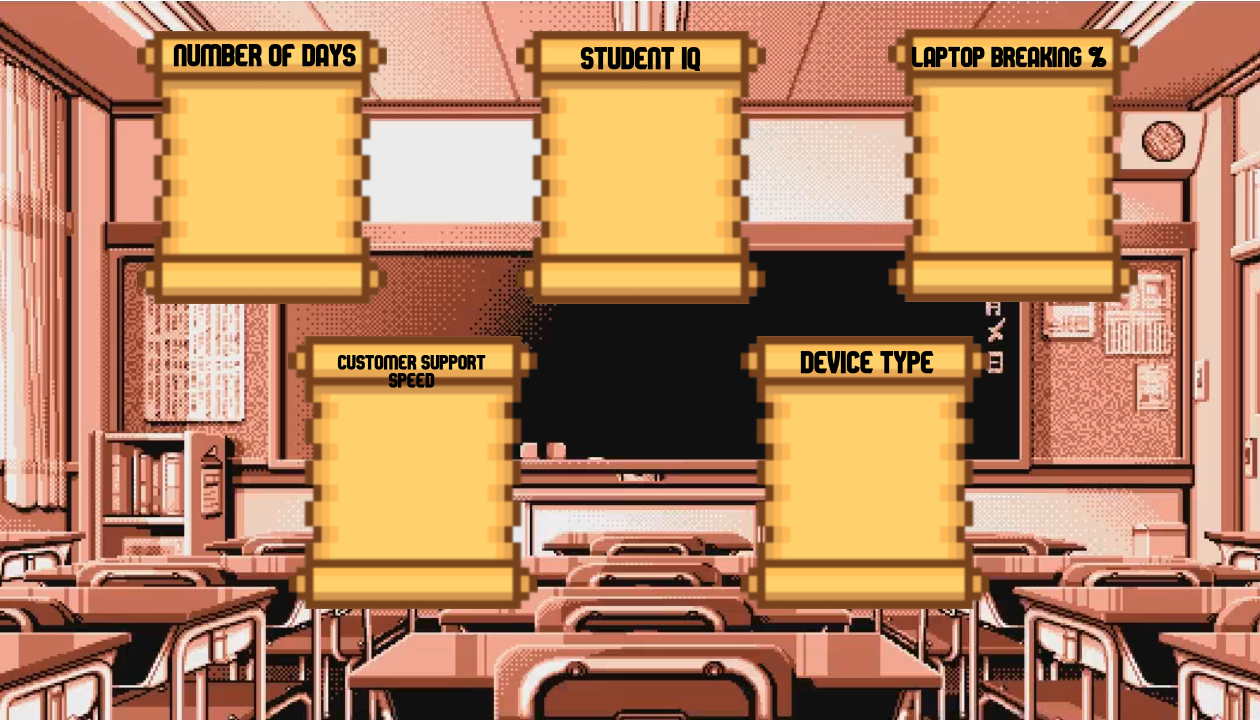
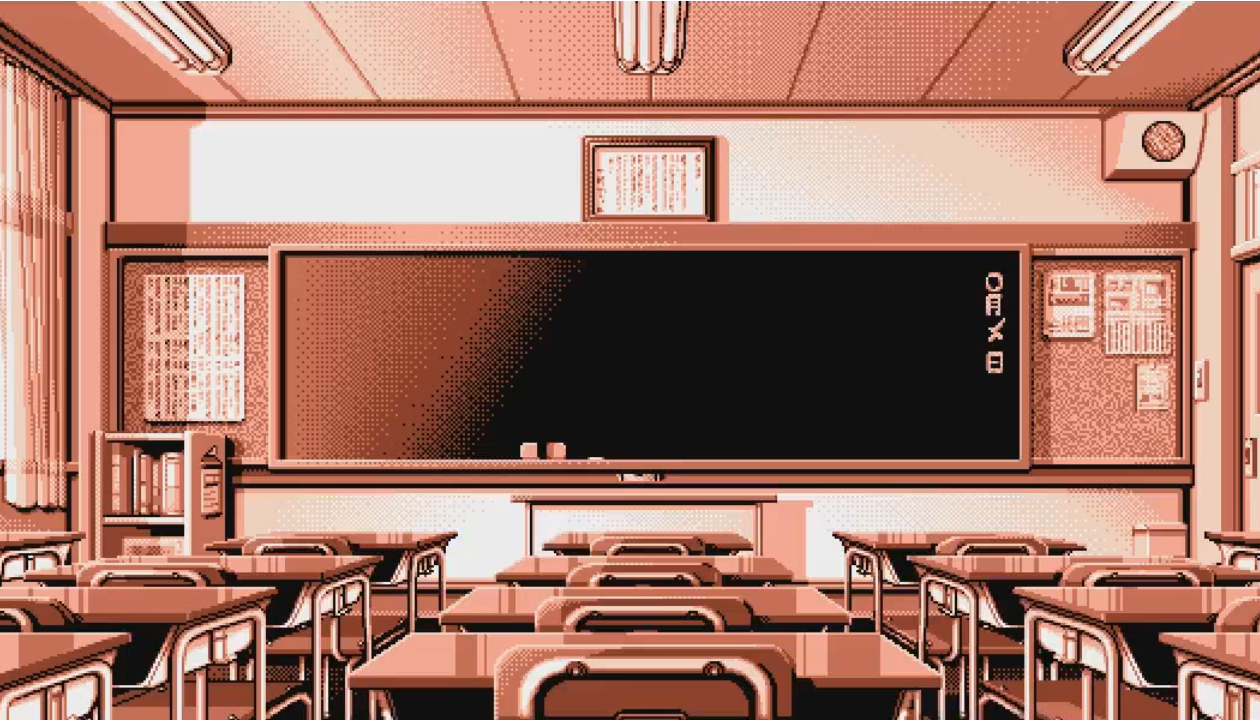
gdhnukysjegfxhmudrcfhngx

diff --git a/Mr.Cohen-Simulator-copy/Modifier.java b/Mr.Cohen-Simulator-copy/Modifier.java
@@ -1,10 +1,14 @@
 import greenfoot.*;  // (World, Actor, GreenfootImage, Greenfoot and MouseInfo)
 
 /**
- * Write a description of class Modifier here.
+ * Modifier world which allows the user to change te startup value of 
+ * the simulation. The users can chnage the number of days of the 
+ * simulation, chance of Mr.Cohen's laptop break, student's IQ, the speed
+ * customer support respond Mr.Cohen's email and the type of device 
+ * Mr.Cohen starts with.
  * 
- * @author (your name) 
- * @version (a version number or a date)
+ * @ Author: Andy Feng
+ * @ version 1.1 (Apr 6th, 2024)
  */
 public class Modifier extends World
 {
@@ -24,15 +28,20 @@ public class Modifier extends World
     protected static int chanceOfLaptopBreaking;
     protected static int studentIQ;
     protected static int customerSupportRespondChance;
+    /*
+       different computers have different number:
+           AlienWare -> 0
+           SteamDeck -> 1
+           MacMini -> 2
+           Desktop -> 3
+       */
+    protected static int computerType;
 
     private boolean firstTime = true;
 
-    /*protected Computer computerList = {new AlienWare(), new SteamDeck(),
-    new DeskTop(), new MacMini()};
-    private int computerType;
-    protected Computer choosenType;*/
+    
     public Modifier(){
-        super(1260, 720, 1);
+        super(1260, 720, 1, false);
         setBackground(background);
 
         numDays = 10;
@@ -61,41 +70,41 @@ public class Modifier extends World
         IQ.setValue(studentIQ);
     }
 
-    //protected int setTypesOfComputer(){
-    //if(/*right button is clicked*/) computerType++;
-    //else if(/*left button is clicked*/) computerType--;
-
-    //if(computerType > 3) computerType = 0;
-    //if(computerType < 0) computerType = 3;
-
-    //choosenType = computerList[computerType];
-    //}
+    
     /**
      * Prepare the world for the start of the program.
      * That is: create the initial objects and add them to the world.
      */
     private void prepare()
     {
+        addObject(new Box(), 280, 360);
+        addObject(new Box(), 245 + 390, 360);
+        addObject(new Box(), 210 + 2 * 390, 360);
+        addObject(new Box(), -(240 + 150), 360);
+        addObject(new Box(), -(200 + 150 + 220 + 300), 360);
+
         Bar bar1 = new Bar("numDays");
         Bar bar2 = new Bar("chanceOfLaptopBreaking");
         Bar bar3 = new Bar("studentIQ");
+
+        addObject(bar1, 280, 490);
+        addObject(bar2, 245 + 390, 490);
+        addObject(bar3, 210 + 2 * 390, 490);
+
         Button startSim = new startButton("start", 3, ".png");
         Button backToTitle = new backButton("back", 3, ".png");
-        addObject(bar1, 200, 200);
-        addObject(bar2, 400, 200);
-        addObject(bar3, 600, 200);
 
         addObject(startSim, 1050, 665);
         addObject(backToTitle, 100, 665);
 
-        addObject(days, 200, 500);
-        addObject(breakingChance, 400, 500);
-        addObject(IQ, 600, 500);
-        bar1.setLocation(266,277);
-        bar2.setLocation(1021,277);
-        days.setLocation(263,190);
-        bar3.setLocation(645,277);
-        breakingChance.setLocation(1021,190);
-        IQ.setLocation(645,190);
+        addObject(days, 280, 360);
+        addObject(breakingChance, 245 + 390, 360);
+        addObject(IQ, 210 + 2 * 390, 360);
+
+        Button leftFlipButton = new LeftFlipButton("left", 3, ".png");
+        Button rightFlipButton = new RightFlipButton("right", 3, ".png");
+        addObject(leftFlipButton, 60,360);
+        addObject(rightFlipButton, 1190,360);
+        leftFlipButton.setLocation(75,369);
     }
 }

diff --git a/Mr.Cohen-Simulator-copy/LeftFlipButton.java b/Mr.Cohen-Simulator-copy/LeftFlipButton.java
@@ -1,0 +1,45 @@
+import greenfoot.*;  // (World, Actor, GreenfootImage, Greenfoot and MouseInfo)
+import java.util.List;
+import greenfoot.Actor;
+
+/**
+ * Write a description of class LeftFlipButton here.
+ * 
+ * @author (your name) 
+ * @version (a version number or a date)
+ */
+public class LeftFlipButton extends Button
+{
+    /**
+     * Act - do whatever the LeftFlipButton wants to do. This method is called whenever
+     * the 'Act' or 'Run' button gets pressed in the environment.
+     */
+    
+    public LeftFlipButton(String imagePath, int numStates, String imageType){
+        super(imagePath, numStates, imageType);
+    }
+    
+    public void act()
+    {
+        // Add your action code here.
+        super.act();
+    }
+    
+    public void action(){
+        List<Box> boxes = getWorld().getObjects(Box.class);
+        List<Bar> bars = getWorld().getObjects(Bar.class);
+        List<Slider> sliders = getWorld().getObjects(Slider.class);
+        List<Label> labels = getWorld().getObjects(Label.class);
+        
+        moveObjects(boxes);
+        moveObjects(bars);
+        moveObjects(sliders);
+        moveObjects(labels);
+    }
+    
+    private void moveObjects(List <? extends Actor> objects){
+        for(Actor object : objects){
+            object.setLocation(object.getX() - 1260, object.getY());
+        }
+    }
+}

diff --git a/Mr.Cohen-Simulator-copy/RightFlipButton.java b/Mr.Cohen-Simulator-copy/RightFlipButton.java
@@ -1,0 +1,43 @@
+import greenfoot.*;  // (World, Actor, GreenfootImage, Greenfoot and MouseInfo)
+import java.util.List;
+/**
+ * Write a description of class RightFlipButton here.
+ * 
+ * @author (your name) 
+ * @version (a version number or a date)
+ */
+public class RightFlipButton extends Button
+{
+    /**
+     * Act - do whatever the RightFlipButton wants to do. This method is called whenever
+     * the 'Act' or 'Run' button gets pressed in the environment.
+     */
+    
+    public RightFlipButton(String imagePath, int numStates, String imageType){
+        super(imagePath, numStates, imageType);
+    }
+    
+    public void act()
+    {
+        // Add your action code here.
+        super.act();
+    }
+    
+    public void action(){
+        List<Box> boxes = getWorld().getObjects(Box.class);
+        List<Bar> bars = getWorld().getObjects(Bar.class);
+        List<Slider> sliders = getWorld().getObjects(Slider.class);
+        List<Label> labels = getWorld().getObjects(Label.class);
+        
+        moveObjects(boxes);
+        moveObjects(bars);
+        moveObjects(sliders);
+        moveObjects(labels);
+    }
+    
+    private void moveObjects(List <? extends Actor> objects){
+        for(Actor object : objects){
+            object.setLocation(object.getX() + 1260, object.getY());
+        }
+    }
+}

diff --git a/Mr.Cohen-Simulator-copy/Bar.java b/Mr.Cohen-Simulator-copy/Bar.java
@@ -5,7 +5,7 @@ import greenfoot.*;  // (World, Actor, GreenfootImage, Greenfoot and MouseInfo)
  * When create a bar, a slider will be created together, they are one
  * set. So please keep in mind to create a bar instead of a slider
  * 
- * @ Andy
+ * @ Author: Andy
  * @ version 1.0 (Apr 5th, 2024)
  * 
  * reference: 
@@ -18,6 +18,8 @@ public class Bar extends Actor
      * Act - do whatever the Bar wants to do. This method is called whenever
      * the 'Act' or 'Run' button gets pressed in the environment.
      */
+    
+    private MouseInfo mouse;
     private GreenfootImage bar = new GreenfootImage("images/bar.png");
     private Slider s;
     
@@ -30,5 +32,13 @@ public class Bar extends Actor
     {
         // Add your action code here.
         getWorld().addObject(s, getX() - getImage().getWidth() / 2, getY());
+        mouse = Greenfoot.getMouseInfo();
+        setSliderLocation();
+    }
+    
+    private void setSliderLocation(){
+        if(Greenfoot.mousePressed(this)){
+            s.setLocation(mouse.getX(), getY());
+        }
     }
 }

diff --git a/Mr.Cohen-Simulator-copy/Box.java b/Mr.Cohen-Simulator-copy/Box.java
@@ -1,0 +1,28 @@
+import greenfoot.*;  // (World, Actor, GreenfootImage, Greenfoot and MouseInfo)
+
+/**
+ * Write a description of class Box here.
+ * 
+ * @author (your name) 
+ * @version (a version number or a date)
+ * 
+ * art from vecteezy.com
+ * https://www.vecteezy.com/vector-art/5146435-old-paper-in-pixel-art-style
+ */
+public class Box extends Actor
+{
+    /**
+     * Act - do whatever the Box wants to do. This method is called whenever
+     * the 'Act' or 'Run' button gets pressed in the environment.
+     */
+    private GreenfootImage box = new GreenfootImage("images/Box.png");
+    
+    public Box(){
+        setImage(box);
+    }
+    
+    public void act()
+    {
+        // Add your action code here.
+    }
+}

diff --git a/Mr.Cohen-Simulator-copy/backButton.java b/Mr.Cohen-Simulator-copy/backButton.java
@@ -24,5 +24,6 @@ public class backButton extends Button
     
     public void action(){
         Greenfoot.setWorld(new Modifier());
+        //change this to Greenfoot.setWorld(new TitleScreen());
     }
 }

diff --git a/Mr.Cohen-Simulator-copy/startButton.java b/Mr.Cohen-Simulator-copy/startButton.java
@@ -24,5 +24,6 @@ public class startButton extends Button
     
     public void action(){
         Greenfoot.setWorld(new Modifier());
+        //change this to Greenfoot.setWorld(new Simulator());
     }
 }
